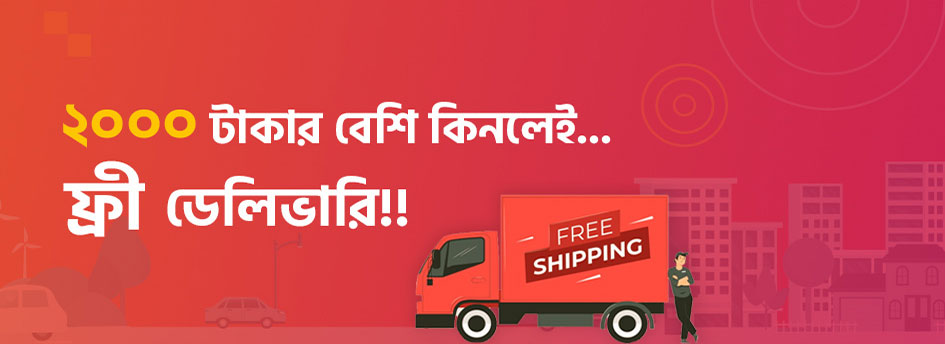
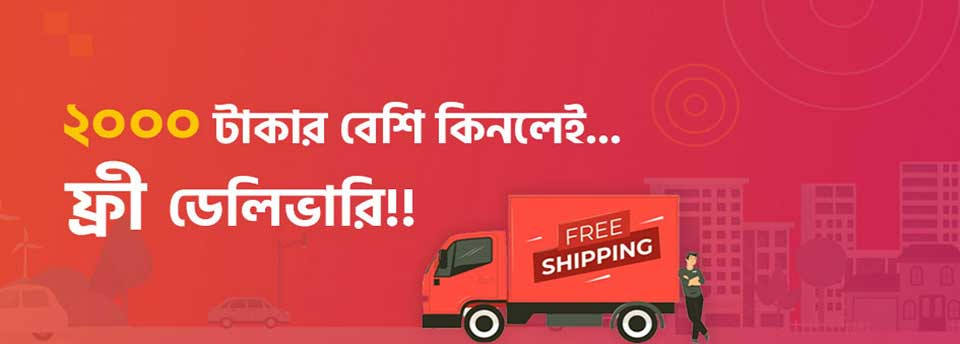
up

diff --git a/index.html b/index.html
@@ -215,7 +215,7 @@
         <div class="single-banner-item" style="background-image: linear-gradient(90deg,  #EF5E1E, #C81457)">
             <div class="container">
                 <div class="row justify-content-end">
-                    <div class="col-lg-9 pl-0">
+                    <div class="col-lg-10 pl-30">
                         <img src="assets/images/b1.jpg" alt="">
                     </div>
                 </div>
@@ -224,7 +224,7 @@
         <div class="single-banner-item" style="background-image: linear-gradient(-90deg,  #EF5E1E, #AF2757)">
             <div class="container">
                 <div class="row justify-content-end">
-                    <div class="col-lg-9 pl-0">
+                    <div class="col-lg-10 pl-30">
                         <img src="assets/images/b2.jpg" alt="">
                     </div>
                 </div>

diff --git a/assets/css/style.css b/assets/css/style.css
@@ -266,7 +266,7 @@ img {
 }
 
 .banner-area img {
-    min-height: 325px;
+    max-height: 325px;
 }
 
 /* offer icon css */
@@ -646,6 +646,10 @@ img {
 	border-radius: 5px;
 	color: #fff;
 }
+.site-btn.two {
+	background: #DD8500;
+}
+
 .site-btn:hover {
 	background: #112942;
 	color: #fff;
@@ -790,7 +794,7 @@ img {
 }
 
 .product-tab li a {
-	font-size: 20px;
+	font-size: 14px;
 	font-weight: 600;
 	color: #444;
 	font-weight: 400;
@@ -850,7 +854,7 @@ img {
 	display: block;
 }
 
-.cart-top .col-xl-4:not(:last-child) .single-cart-top {
+.cart-top .col-md-4:not(:last-child) .single-cart-top {
 	border-right: 1px solid #ccc;
 }
 

diff --git a/product-details.html b/product-details.html
@@ -275,7 +275,7 @@
                                 </div>
                                 <div class="product-buttons">
                                     <a href="cart.html" class="site-btn">Add to cart</a>
-                                    <a href="#" class="site-btn">Order Now</a>
+                                    <a href="#" class="site-btn two">Order Now</a>
                                 </div>
                                 <div class="order-policy">
                                     <h4>Per Order Policy:</h4>

diff --git a/cart.html b/cart.html
@@ -310,7 +310,7 @@
                             <a href="#0" class="site-btn">Back to Shop</a>
                         </div>
                         <div class="col-md-6 mt-20 text-right">
-                            <a href="#0" class="site-btn">Continue to Shopping</a>
+                            <a href="#0" class="site-btn two">Continue to Shopping</a>
                         </div>
                     </div>
                 </div>

diff --git a/payment.html b/payment.html
@@ -323,7 +323,7 @@
                             <a href="#0" class="site-btn">Back to Shop</a>
                         </div>
                         <div class="col-md-6 mt-20 text-right">
-                            <a href="#0" class="site-btn">Continue to Shopping</a>
+                            <a href="#0" class="site-btn two">Continue to Shopping</a>
                         </div>
                     </div>
                 </div>

diff --git a/shipping.html b/shipping.html
@@ -307,7 +307,7 @@
                             <a href="#0" class="site-btn">Back to Shop</a>
                         </div>
                         <div class="col-md-6 mt-20 text-right">
-                            <a href="#0" class="site-btn">Continue to Shopping</a>
+                            <a href="#0" class="site-btn two">Continue to Shopping</a>
                         </div>
                     </div>
                 </div>
